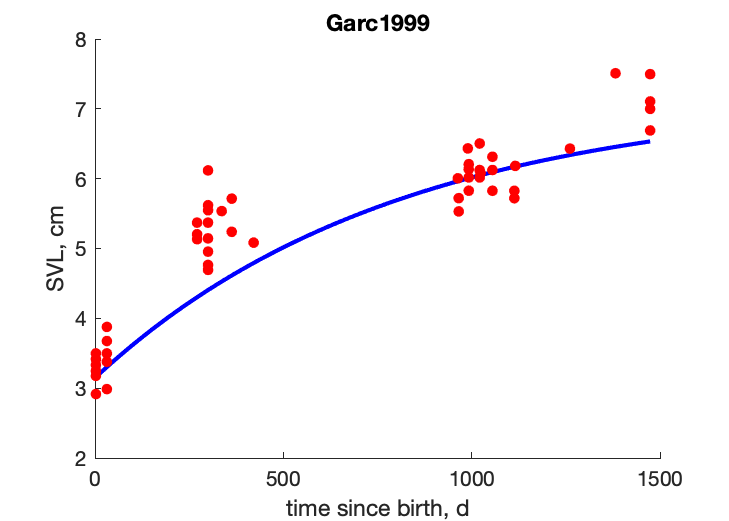
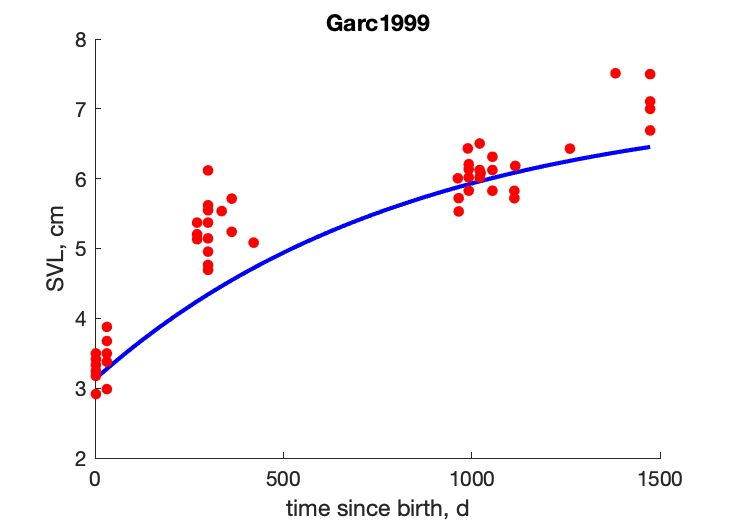
estim caesaris

Changed region(s): [[0.332, 0.2457, 0.9053, 0.5221], [0.1509, 0.5221, 0.332, 0.7063]]

diff --git a/Gallotia_caesaris_res.html b/Gallotia_caesaris_res.html
@@ -44,7 +44,7 @@
   </div>
 
   <div class="par">
-  <h4>COMPLETE = 2.4; MRE =    0.080; SMSE =    0.076 </h4>
+  <h4>COMPLETE = 2.4; MRE =    0.081; SMSE =    0.075 </h4>
   </div>
 
   <p class="clear"></p>
@@ -53,27 +53,27 @@
   <h2>Data & predictions</h2>
   <TABLE id="prd">
     <TR  class="head"><TH>data</TH> <TH>prd</TH> <TH>RE</TH>  <TH>symbol</TH> <TH>units</TH> <TH>description</TH> </TR>
-    <TR><TD> 56</TD> <TD>117.3</TD> <TD>1.095</TD> <TD>ab</TD> <TD>d</TD> <TD>age at birth</TD></TR>
-    <TR><TD>690</TD> <TD>691.1</TD> <TD>0.001615</TD> <TD>tp</TD> <TD>d</TD> <TD>time since birth at puberty</TD></TR>
-    <TR><TD>1860</TD> <TD>1860</TD> <TD>0.0001977</TD> <TD>am</TD> <TD>d</TD> <TD>life span</TD></TR>
-    <TR><TD>3.4</TD> <TD>3.147</TD> <TD>0.07427</TD> <TD>Lb</TD> <TD>cm</TD> <TD>SVL at hatching</TD></TR>
-    <TR><TD>5.7</TD> <TD>5.473</TD> <TD>0.03978</TD> <TD>Lp</TD> <TD>cm</TD> <TD>SVL at puberty</TD></TR>
-    <TR><TD>6.2</TD> <TD>8.434</TD> <TD>0.3602</TD> <TD>Lpm</TD> <TD>cm</TD> <TD>SVL at puberty males</TD></TR>
-    <TR><TD>7.7</TD> <TD>7.174</TD> <TD>0.06834</TD> <TD>Li</TD> <TD>cm</TD> <TD>ultimate SVL</TD></TR>
-    <TR><TD>8.7</TD> <TD>8.434</TD> <TD>0.03063</TD> <TD>Lim</TD> <TD>cm</TD> <TD>ultimate SVL males</TD></TR>
-    <TR><TD>1.21</TD> <TD>1.344</TD> <TD>0.1105</TD> <TD>Ww0</TD> <TD>g</TD> <TD>wet weight of eggs</TD></TR>
-    <TR><TD>0.94</TD> <TD>0.8456</TD> <TD>0.1004</TD> <TD>Wwb</TD> <TD>g</TD> <TD>wet weight of hatchlings</TD></TR>
-    <TR><TD>9.3</TD> <TD>10.01</TD> <TD>0.07657</TD> <TD>Wwi</TD> <TD>g</TD> <TD>ultimate wet weight</TD></TR>
-    <TR><TD>18.5</TD> <TD>17.15</TD> <TD>0.07308</TD> <TD>Wwim</TD> <TD>g</TD> <TD>ultimate wet males</TD></TR>
-    <TR><TD>0.006849</TD> <TD>0.006663</TD> <TD>0.02724</TD> <TD>Ri</TD> <TD>#/d</TD> <TD>maximum reprod rate</TD></TR>
-    <TR><TD colspan="2">see figure</TD> <TD>0.08357</TD> <TD>tL</TD> <TD colspan="2">time since birth, <font color="blue"><i>vs.</i></font> SVL</TD>
-    <TR class="psd"><TD>0.02</TD> <TD>0.02165</TD> <TD>0.0826</TD> <TD>psd.v</TD> <TD>cm/d</TD> <TD>energy conductance</TD></TR>
-    <TR class="psd"><TD>0.8</TD> <TD>0.7492</TD> <TD>0.06351</TD> <TD>psd.kap</TD> <TD>-</TD> <TD>allocation fraction to soma</TD></TR>
+    <TR><TD> 56</TD> <TD>119.3</TD> <TD>1.13</TD> <TD>ab</TD> <TD>d</TD> <TD>age at birth</TD></TR>
+    <TR><TD>690</TD> <TD>693.5</TD> <TD>0.005025</TD> <TD>tp</TD> <TD>d</TD> <TD>time since birth at puberty</TD></TR>
+    <TR><TD>1830</TD> <TD>1830</TD> <TD>5.316e-09</TD> <TD>am</TD> <TD>d</TD> <TD>life span</TD></TR>
+    <TR><TD>3.4</TD> <TD>3.127</TD> <TD>0.08018</TD> <TD>Lb</TD> <TD>cm</TD> <TD>SVL at hatching</TD></TR>
+    <TR><TD>5.7</TD> <TD>5.395</TD> <TD>0.05346</TD> <TD>Lp</TD> <TD>cm</TD> <TD>SVL at puberty</TD></TR>
+    <TR><TD>6.2</TD> <TD>8.394</TD> <TD>0.3539</TD> <TD>Lpm</TD> <TD>cm</TD> <TD>SVL at puberty males</TD></TR>
+    <TR><TD>7.7</TD> <TD>7.133</TD> <TD>0.0736</TD> <TD>Li</TD> <TD>cm</TD> <TD>ultimate SVL</TD></TR>
+    <TR><TD>8.7</TD> <TD>8.394</TD> <TD>0.03514</TD> <TD>Lim</TD> <TD>cm</TD> <TD>ultimate SVL males</TD></TR>
+    <TR><TD>1.21</TD> <TD>1.346</TD> <TD>0.1126</TD> <TD>Ww0</TD> <TD>g</TD> <TD>wet weight of eggs</TD></TR>
+    <TR><TD>0.94</TD> <TD>0.8433</TD> <TD>0.1028</TD> <TD>Wwb</TD> <TD>g</TD> <TD>wet weight of hatchlings</TD></TR>
+    <TR><TD>9.3</TD> <TD>10.01</TD> <TD>0.07607</TD> <TD>Wwi</TD> <TD>g</TD> <TD>ultimate wet weight</TD></TR>
+    <TR><TD>18.5</TD> <TD>17.18</TD> <TD>0.07114</TD> <TD>Wwim</TD> <TD>g</TD> <TD>ultimate wet males</TD></TR>
+    <TR><TD>0.006849</TD> <TD>0.006669</TD> <TD>0.02626</TD> <TD>Ri</TD> <TD>#/d</TD> <TD>maximum reprod rate</TD></TR>
+    <TR><TD colspan="2">see figure</TD> <TD>0.0571</TD> <TD>tL</TD> <TD colspan="2">time since birth, <font color="blue"><i>vs.</i></font> SVL</TD>
+    <TR class="psd"><TD>0.02</TD> <TD>0.02141</TD> <TD>0.07061</TD> <TD>psd.v</TD> <TD>cm/d</TD> <TD>energy conductance</TD></TR>
+    <TR class="psd"><TD>0.8</TD> <TD>0.7444</TD> <TD>0.06951</TD> <TD>psd.kap</TD> <TD>-</TD> <TD>allocation fraction to soma</TD></TR>
     <TR class="psd"><TD>0.95</TD> <TD>0.95</TD> <TD>  0</TD> <TD>psd.kap_R</TD> <TD>-</TD> <TD>reproduction efficiency</TD></TR>
-    <TR class="psd"><TD> 18</TD> <TD>26.2</TD> <TD>0.4557</TD> <TD>psd.p_M</TD> <TD>J/d.cm^3</TD> <TD>vol-spec som maint</TD></TR>
-    <TR class="psd"><TD>0.002</TD> <TD>0.0009783</TD> <TD>0.5109</TD> <TD>psd.k_J</TD> <TD>1/d</TD> <TD>maturity maint rate coefficient</TD></TR>
-    <TR class="psd"><TD>0.8</TD> <TD>0.8041</TD> <TD>0.005068</TD> <TD>psd.kap_G</TD> <TD>-</TD> <TD>growth efficiency</TD></TR>
-    <TR class="psd"><TD>0.3</TD> <TD>0.2914</TD> <TD>0.02859</TD> <TD>psd.k</TD> <TD>-</TD> <TD>maintenance ratio</TD></TR>
+    <TR class="psd"><TD> 18</TD> <TD>25.14</TD> <TD>0.3966</TD> <TD>psd.p_M</TD> <TD>J/d.cm^3</TD> <TD>vol-spec som maint</TD></TR>
+    <TR class="psd"><TD>0.002</TD> <TD>0.0009391</TD> <TD>0.5304</TD> <TD>psd.k_J</TD> <TD>1/d</TD> <TD>maturity maint rate coefficient</TD></TR>
+    <TR class="psd"><TD>0.8</TD> <TD>0.804</TD> <TD>0.005051</TD> <TD>psd.kap_G</TD> <TD>-</TD> <TD>growth efficiency</TD></TR>
+    <TR class="psd"><TD>0.3</TD> <TD>0.2916</TD> <TD>0.02799</TD> <TD>psd.k</TD> <TD>-</TD> <TD>maintenance ratio</TD></TR>
   </TABLE>
   </div>
 
@@ -83,27 +83,27 @@
     <TR class="head"><TH>symbol</TH> <TH>units</TH> <TH>value</TH>  <TH>free</TH> <TH>description</TH> </TR>
     <TR><TD>T_ref</TD> <TD>K</TD> <TD>293.1</TD> <TD>0</TD> <TD>Reference temperature</TD></TR>
     <TR><TD>T_A</TD> <TD>K</TD> <TD>8000</TD> <TD>0</TD> <TD>Arrhenius temperature</TD></TR>
-    <TR><TD>z</TD> <TD>-</TD> <TD>1.906</TD> <TD>1</TD> <TD>zoom factor for females</TD></TR>
+    <TR><TD>z</TD> <TD>-</TD> <TD>1.91</TD> <TD>1</TD> <TD>zoom factor for females</TD></TR>
     <TR><TD>F_m</TD> <TD>l/d.cm^2</TD> <TD>6.5</TD> <TD>0</TD> <TD>{F_m}, max spec searching rate</TD></TR>
     <TR><TD>kap_X</TD> <TD>-</TD> <TD>0.8</TD> <TD>0</TD> <TD>digestion efficiency of food to reserve</TD></TR>
     <TR><TD>kap_P</TD> <TD>-</TD> <TD>0.1</TD> <TD>0</TD> <TD>faecation efficiency of food to faeces</TD></TR>
-    <TR><TD>v</TD> <TD>cm/d</TD> <TD>0.02165</TD> <TD>1</TD> <TD>energy conductance</TD></TR>
-    <TR><TD>kap</TD> <TD>-</TD> <TD>0.7492</TD> <TD>1</TD> <TD>allocation fraction to soma</TD></TR>
+    <TR><TD>v</TD> <TD>cm/d</TD> <TD>0.02141</TD> <TD>1</TD> <TD>energy conductance</TD></TR>
+    <TR><TD>kap</TD> <TD>-</TD> <TD>0.7444</TD> <TD>1</TD> <TD>allocation fraction to soma</TD></TR>
     <TR><TD>kap_R</TD> <TD>-</TD> <TD>0.95</TD> <TD>0</TD> <TD>reproduction efficiency</TD></TR>
-    <TR><TD>p_M</TD> <TD>J/d.cm^3</TD> <TD>26.2</TD> <TD>1</TD> <TD>[p_M], vol-spec somatic maint</TD></TR>
+    <TR><TD>p_M</TD> <TD>J/d.cm^3</TD> <TD>25.14</TD> <TD>1</TD> <TD>[p_M], vol-spec somatic maint</TD></TR>
     <TR><TD>p_T</TD> <TD>J/d.cm^2</TD> <TD>  0</TD> <TD>0</TD> <TD>{p_T}, surf-spec somatic maint</TD></TR>
-    <TR><TD>k_J</TD> <TD>1/d</TD> <TD>0.0009783</TD> <TD>1</TD> <TD>maturity maint rate coefficient</TD></TR>
+    <TR><TD>k_J</TD> <TD>1/d</TD> <TD>0.0009391</TD> <TD>1</TD> <TD>maturity maint rate coefficient</TD></TR>
     <TR><TD>E_G</TD> <TD>J/cm^3</TD> <TD>7806</TD> <TD>1</TD> <TD>[E_G], spec cost for structure</TD></TR>
-    <TR><TD>E_Hb</TD> <TD>J</TD> <TD>1764</TD> <TD>1</TD> <TD>maturity at birth</TD></TR>
-    <TR><TD>E_Hp</TD> <TD>J</TD> <TD>1.603e+04</TD> <TD>1</TD> <TD>maturity at puberty</TD></TR>
-    <TR><TD>h_a</TD> <TD>1/d^2</TD> <TD>1.941e-08</TD> <TD>1</TD> <TD>Weibull aging acceleration</TD></TR>
+    <TR><TD>E_Hb</TD> <TD>J</TD> <TD>1812</TD> <TD>1</TD> <TD>maturity at birth</TD></TR>
+    <TR><TD>E_Hp</TD> <TD>J</TD> <TD>1.592e+04</TD> <TD>1</TD> <TD>maturity at puberty</TD></TR>
+    <TR><TD>h_a</TD> <TD>1/d^2</TD> <TD>2.064e-08</TD> <TD>1</TD> <TD>Weibull aging acceleration</TD></TR>
     <TR><TD>s_G</TD> <TD>-</TD> <TD>0.0001</TD> <TD>0</TD> <TD>Gompertz stress coefficient</TD></TR>
-    <TR><TD>E_Hpm</TD> <TD>J</TD> <TD>1.164e+05</TD> <TD>1</TD> <TD>maturity at puberty for males</TD></TR>
-    <TR><TD>del_M</TD> <TD>-</TD> <TD>0.2657</TD> <TD>1</TD> <TD>shape coefficient</TD></TR>
+    <TR><TD>E_Hpm</TD> <TD>J</TD> <TD>1.044e+05</TD> <TD>1</TD> <TD>maturity at puberty for males</TD></TR>
+    <TR><TD>del_M</TD> <TD>-</TD> <TD>0.2678</TD> <TD>1</TD> <TD>shape coefficient</TD></TR>
     <TR><TD>f</TD> <TD>-</TD> <TD>  1</TD> <TD>0</TD> <TD>scaled functional response for 0-var data</TD></TR>
     <TR><TD>f_LN</TD> <TD>-</TD> <TD>  1</TD> <TD>0</TD> <TD>scaled functional response for LN data</TD></TR>
     <TR><TD>f_tL</TD> <TD>-</TD> <TD>  1</TD> <TD>0</TD> <TD>scaled functional response for tL data</TD></TR>
-    <TR><TD>z_m</TD> <TD>-</TD> <TD>2.241</TD> <TD>1</TD> <TD>zoom factor for males</TD></TR>
+    <TR><TD>z_m</TD> <TD>-</TD> <TD>2.248</TD> <TD>1</TD> <TD>zoom factor for males</TD></TR>
   </TABLE>
   </div>
 

diff --git a/pars_init_Gallotia_caesaris.m b/pars_init_Gallotia_caesaris.m
@@ -7,29 +7,29 @@ par.T_ref = 293.15;   free.T_ref = 0;   units.T_ref = 'K';        label.T_ref = 
 
 %% core primary parameters 
 par.T_A = 8000;       free.T_A   = 0;   units.T_A = 'K';          label.T_A = 'Arrhenius temperature'; 
-par.z = 1.906;        free.z     = 1;   units.z = '-';            label.z = 'zoom factor for females'; 
+par.z = 1.91;         free.z     = 1;   units.z = '-';            label.z = 'zoom factor for females'; 
 par.F_m = 6.5;        free.F_m   = 0;   units.F_m = 'l/d.cm^2';   label.F_m = '{F_m}, max spec searching rate'; 
 par.kap_X = 0.8;      free.kap_X = 0;   units.kap_X = '-';        label.kap_X = 'digestion efficiency of food to reserve'; 
 par.kap_P = 0.1;      free.kap_P = 0;   units.kap_P = '-';        label.kap_P = 'faecation efficiency of food to faeces'; 
-par.v = 0.021652;     free.v     = 1;   units.v = 'cm/d';         label.v = 'energy conductance'; 
-par.kap = 0.74919;    free.kap   = 1;   units.kap = '-';          label.kap = 'allocation fraction to soma'; 
+par.v = 0.021412;     free.v     = 1;   units.v = 'cm/d';         label.v = 'energy conductance'; 
+par.kap = 0.7444;     free.kap   = 1;   units.kap = '-';          label.kap = 'allocation fraction to soma'; 
 par.kap_R = 0.95;     free.kap_R = 0;   units.kap_R = '-';        label.kap_R = 'reproduction efficiency'; 
-par.p_M = 26.2028;    free.p_M   = 1;   units.p_M = 'J/d.cm^3';   label.p_M = '[p_M], vol-spec somatic maint'; 
+par.p_M = 25.1393;    free.p_M   = 1;   units.p_M = 'J/d.cm^3';   label.p_M = '[p_M], vol-spec somatic maint'; 
 par.p_T = 0;          free.p_T   = 0;   units.p_T = 'J/d.cm^2';   label.p_T = '{p_T}, surf-spec somatic maint'; 
-par.k_J = 0.00097828;  free.k_J   = 1;   units.k_J = '1/d';        label.k_J = 'maturity maint rate coefficient'; 
-par.E_G = 7805.6306;  free.E_G   = 1;   units.E_G = 'J/cm^3';     label.E_G = '[E_G], spec cost for structure'; 
-par.E_Hb = 1.764e+03; free.E_Hb  = 1;   units.E_Hb = 'J';         label.E_Hb = 'maturity at birth'; 
-par.E_Hp = 1.603e+04; free.E_Hp  = 1;   units.E_Hp = 'J';         label.E_Hp = 'maturity at puberty'; 
-par.h_a = 1.941e-08;  free.h_a   = 1;   units.h_a = '1/d^2';      label.h_a = 'Weibull aging acceleration'; 
+par.k_J = 0.00093914;  free.k_J   = 1;   units.k_J = '1/d';        label.k_J = 'maturity maint rate coefficient'; 
+par.E_G = 7805.7612;  free.E_G   = 1;   units.E_G = 'J/cm^3';     label.E_G = '[E_G], spec cost for structure'; 
+par.E_Hb = 1.812e+03; free.E_Hb  = 1;   units.E_Hb = 'J';         label.E_Hb = 'maturity at birth'; 
+par.E_Hp = 1.592e+04; free.E_Hp  = 1;   units.E_Hp = 'J';         label.E_Hp = 'maturity at puberty'; 
+par.h_a = 2.064e-08;  free.h_a   = 1;   units.h_a = '1/d^2';      label.h_a = 'Weibull aging acceleration'; 
 par.s_G = 0.0001;     free.s_G   = 0;   units.s_G = '-';          label.s_G = 'Gompertz stress coefficient'; 
 
 %% other parameters 
-par.E_Hpm = 1.164e+05; free.E_Hpm = 1;   units.E_Hpm = 'J';        label.E_Hpm = 'maturity at puberty for males'; 
-par.del_M = 0.26569;  free.del_M = 1;   units.del_M = '-';        label.del_M = 'shape coefficient'; 
+par.E_Hpm = 1.044e+05; free.E_Hpm = 1;   units.E_Hpm = 'J';        label.E_Hpm = 'maturity at puberty for males'; 
+par.del_M = 0.26775;  free.del_M = 1;   units.del_M = '-';        label.del_M = 'shape coefficient'; 
 par.f = 1;            free.f     = 0;   units.f = '-';            label.f = 'scaled functional response for 0-var data'; 
 par.f_LN = 1;         free.f_LN  = 0;   units.f_LN = '-';         label.f_LN = 'scaled functional response for LN data'; 
 par.f_tL = 1;         free.f_tL  = 0;   units.f_tL = '-';         label.f_tL = 'scaled functional response for tL data'; 
-par.z_m = 2.2407;     free.z_m   = 1;   units.z_m = '-';          label.z_m = 'zoom factor for males'; 
+par.z_m = 2.2476;     free.z_m   = 1;   units.z_m = '-';          label.z_m = 'zoom factor for males'; 
 
 %% set chemical parameters from Kooy2010 
 [par, units, label, free] = addchem(par, units, label, free, metaData.phylum, metaData.class); 

diff --git a/run_Gallotia_caesaris.m b/run_Gallotia_caesaris.m
@@ -5,11 +5,11 @@ pets = {'Gallotia_caesaris'};
 check_my_pet(pets); 
 
 estim_options('default'); 
-estim_options('max_step_number', 5e2); 
+estim_options('max_step_number', 5e5); 
 estim_options('max_fun_evals', 5e3); 
 
-estim_options('pars_init_method', 2); 
+estim_options('pars_init_method', 1); 
 estim_options('results_output', 3); 
-estim_options('method', 'no'); 
+estim_options('method', 'nm'); 
 
 estim_pars; 

diff --git a/mydata_Gallotia_caesaris.m b/mydata_Gallotia_caesaris.m
@@ -125,6 +125,7 @@ comment.tL = 'Data for mixed sexes';
 %% set weights for all real data
 weights = setweights(data, []);
 weights.ab = 0;
+weights.tL(12:25,:) = 0;
 
 %% set pseudodata and respective weights
 [data, units, label, weights] = addpseudodata(data, units, label, weights);
